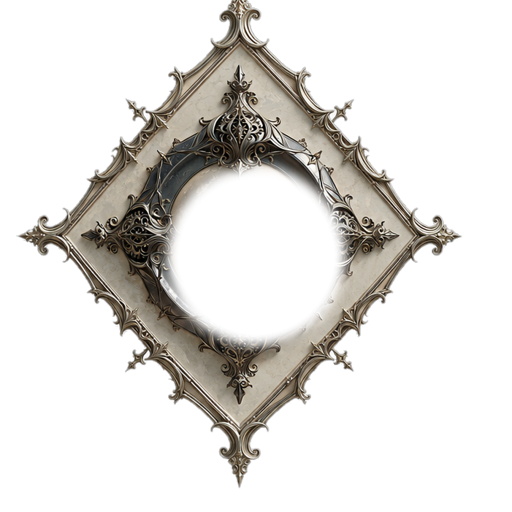
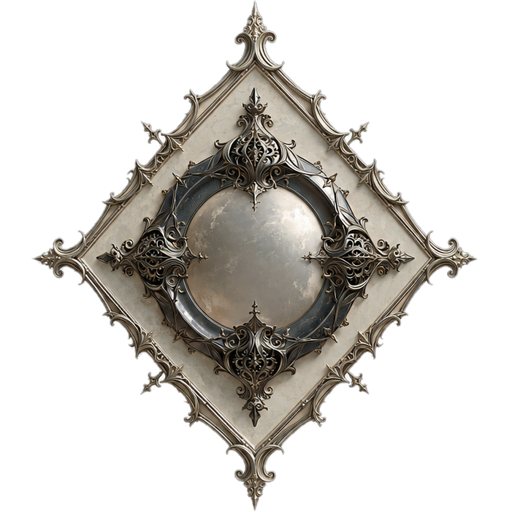
Relics: tint the frame's own pearl instead of overlaying a gem
Scrap the flat-gem / knockout approach — comparing to the source art, the shifts and
socket holes had wrecked the beautiful frames. The pearls were centred all along (my
detectors were reading the silver filigree, not the dome). Reverted all three frames
to the pristine originals and instead TINT each frame's own pearl the category colour:
a solid-colour layer masked to the pearl (per-frame alpha masks) and blended with
mix-blend-mode:color, so the pearl keeps its reflective shading but takes the hue.
Metal filigree untouched, glyph on top. Gold pearl = Value, violet = Cunning, etc.

Claude-Session: https://claude.ai/code/session_01JbsNTb2Jvjps6CqMJRSas3

diff --git a/style.css b/style.css
@@ -1488,13 +1488,17 @@ body[data-deal="house"] .hand .cicon { width: 46px; height: 46px; padding: 5px; 
 /* Relic (boss-trophy) emblems wear an ornate diamond bezel instead of the round
    medallion; the category gem seats in the diamond's central socket (smaller than
    the round frame's). Wildcard gets its own distinct diamond. */
-/* The frame PNGs have their pearl socket knocked out to a transparent hole. The gem
-   sits BEHIND the frame (frame z-index wins) and fills the hole, so the ornate bezel
-   and metal render IN FRONT and clip any gem overflow — the gem can never bleed over
-   the frame edge. The glyph shows through the hole on top of the gem. */
-.charmemblem.ce-relic .ce-frame { background-image: url('assets/charms/relic-frame.png?v=5'); z-index: 2; }
-.charmemblem.ce-relic.ce-relic-wild .ce-frame { background-image: url('assets/charms/relic-frame-wild.png?v=5'); }
-.charmemblem.ce-relic .ce-gem { width: 40%; height: 40%; z-index: 1; box-shadow: none; }
+/* Relics keep the frame's own pearl (the art is gorgeous) and TINT it the category
+   colour: a solid-colour layer masked to the pearl shape, blended with mix-blend-mode
+   :color so the pearl keeps its reflective shading but takes the category hue. The
+   glyph rides on top. No flat gem, no knockout — the original frame is untouched. */
+.charmemblem.ce-relic .ce-frame { background-image: url('assets/charms/relic-frame.png?v=6'); }
+.charmemblem.ce-relic.ce-relic-wild .ce-frame { background-image: url('assets/charms/relic-frame-wild.png?v=6'); }
+.charmemblem.ce-relic .ce-tint { position: absolute; inset: 0; z-index: 1; pointer-events: none; background: var(--cc);
+  -webkit-mask: url('assets/charms/relic-frame-mask.png?v=1') center/contain no-repeat; mask: url('assets/charms/relic-frame-mask.png?v=1') center/contain no-repeat;
+  mix-blend-mode: color; }
+.charmemblem.ce-relic.ce-relic-wild .ce-tint { -webkit-mask-image: url('assets/charms/relic-frame-wild-mask.png?v=1'); mask-image: url('assets/charms/relic-frame-wild-mask.png?v=1'); }
+.charmemblem.ce-relic .ce-gem { width: 100%; height: 100%; background: none; box-shadow: none; border-radius: 0; z-index: 2; }
 .deckdock { display: flex; align-items: center; justify-content: center; gap: 16px; margin: 2px 0 4px; }
 .deckdot { width: 54px; height: 54px; border-radius: 11px; border: 2px solid var(--gold-dim); background-size: cover; background-position: center top;
   cursor: pointer; opacity: 0.6; transition: opacity 0.14s ease, transform 0.14s ease, border-color 0.14s ease; }

diff --git a/game.js b/game.js
@@ -6735,8 +6735,11 @@ function charmEmblemHtml(key, opts) {
   const tip = opts.tip ? ` data-tip-head="${esc(ch.label)}" data-tip="${esc(ch.blurb)}" data-tip-cls="tip-gold"` : '';
   const relicCls = ch.bossOnly ? (key === 'wildcard' ? ' ce-relic ce-relic-wild' : ' ce-relic') : '';
   const cls = 'charmemblem' + (opts.size ? ' ce-' + opts.size : '') + relicCls;
-  return `<span class="${cls}" style="--cc:${cat.color};--cd:${cat.dark}"${tip}><span class="ce-frame"></span>` +
-    `<span class="ce-gem"><span class="ce-g" style="${charmGlyphStyle(m[0])}">${m[0]}</span></span></span>`;
+  // Relics keep the frame's own pearl and tint it the category colour (ce-tint, masked
+  // to the pearl); commons use the flat category gem. Glyph rides on top either way.
+  const glyph = `<span class="ce-gem"><span class="ce-g" style="${charmGlyphStyle(m[0])}">${m[0]}</span></span>`;
+  const body = ch.bossOnly ? `<span class="ce-frame"></span><span class="ce-tint"></span>${glyph}` : `<span class="ce-frame"></span>${glyph}`;
+  return `<span class="${cls}" style="--cc:${cat.color};--cd:${cat.dark}"${tip}>${body}</span>`;
 }
 
 // Spread `count` nodes evenly across the lanes (a lone node rides the middle).

diff --git a/index.html b/index.html
@@ -6,7 +6,7 @@
 <title>Stonelock — A Game of Regional Leverage</title>
 <link rel="preconnect" href="https://fonts.googleapis.com">
 <link href="https://fonts.googleapis.com/css2?family=Cinzel:wght@500;600;700&family=Alegreya:ital,wght@0,400;0,500;0,600;0,700;1,400;1,500&display=swap" rel="stylesheet">
-<link rel="stylesheet" href="style.css?v=320">
+<link rel="stylesheet" href="style.css?v=321">
 </head>
 <body>
 
@@ -556,6 +556,6 @@
   </div>
 </div>
 
-<script src="game.js?v=333"></script>
+<script src="game.js?v=334"></script>
 </body>
 </html>
